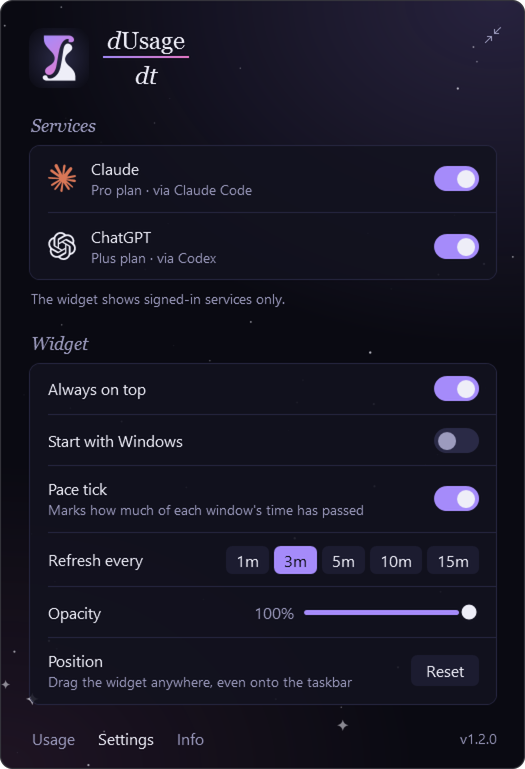
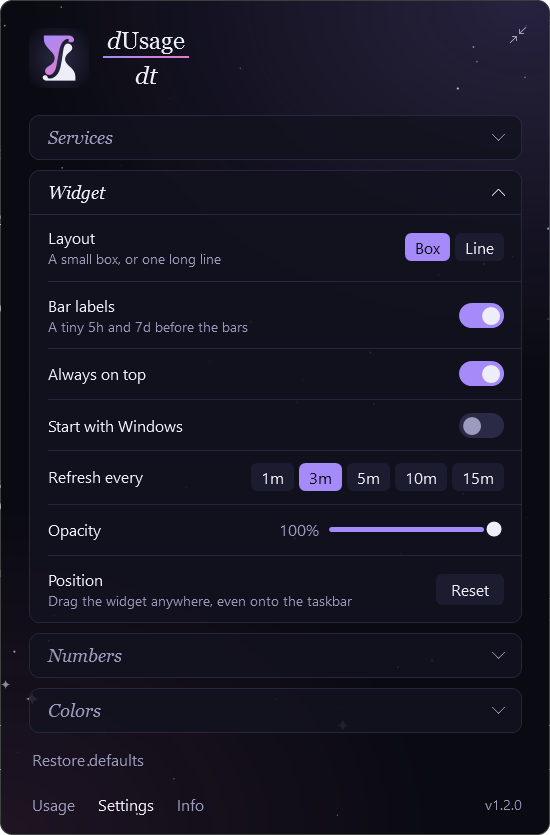
README: fresh screenshots for the settings overhaul
The widget with its 5h/7d labels and % signs, a new shot of the Line layout,
and the expanded widget at its new fixed size: the Usage page and the Settings
accordion with Widget open. Taken with default settings at 125% scaling,
corners cut to the rounded shape as before. The tooltip looks the same with
default settings, so it stays.

diff --git a/README.md b/README.md
@@ -4,7 +4,7 @@
 
 A tiny always-on-top Windows widget that shows how much of your **Claude** and **ChatGPT** plan limits you've used: the 5-hour window and the weekly window, at a glance.
 
-![The widget: a Claude row and a ChatGPT row, each with a 5-hour bar and a weekly bar](docs/widget.png)
+![The widget: a Claude row and a ChatGPT row, each with a 5h bar and a 7d (weekly) bar and the percent used](docs/widget.png)
 
 > **Made for Claude Code and Codex users.** dUsage/dt reads the sign-in that Claude Code and Codex save on your PC. If you only use claude.ai or ChatGPT in a browser, there's nothing for it to read.
 
@@ -39,7 +39,10 @@ No admin rights, and nothing else to install (.NET is built in). The command:
 - The number is the percent used (or, if you pick it in Settings, the percent left). A bar turns **amber at 75%** used and **red at 90%**; both are adjustable.
 - The thin **tick** marks how much of the window's *time* has passed. If the fill runs past the tick, you're using the limit faster than the clock. When the numbers show what's left, the bars drain instead and the tick marks the time left, so a bar that falls short of its tick is running out early.
 - A tiny **5h** or **7d** before each bar says which is which (you can switch them off).
-- The rows above are the **Box** layout. **Line** puts the services side by side in one long row, which fits on the taskbar.
+- The rows above are the **Box** layout. **Line** puts the services side by side in one long row, which fits on the taskbar:
+
+  ![The widget in the Line layout: Claude and ChatGPT side by side in one row](docs/widget-line.png)
+
 - A **faded logo** means that row couldn't update just now (for example, Claude Code's sign-in expired). The numbers are the last ones it got; hover to see why.
 - A service you aren't signed in to doesn't appear at all.
 
@@ -53,7 +56,7 @@ Hover for details: reset times, plan, and when it last updated.
 
 Right-click the widget and choose **Expand**, click the tray icon, or launch dUsage/dt from the Start menu while it's running. The widget grows into a bigger panel in its place; the button in the top-right corner (or Esc) shrinks it back. That also brings back a widget you've lost track of.
 
-<img src="docs/expanded.png" width="400" align="top" alt="The expanded widget's Usage page: a card per service with a wide bar, the percent used and the reset time for each limit"> <img src="docs/settings.png" width="400" align="top" alt="Its Settings page: services with on/off switches, and widget options">
+<img src="docs/expanded.png" width="400" align="top" alt="The expanded widget's Usage page: a card per service with a wide bar, the percent used and the reset time for each limit"> <img src="docs/settings.png" width="400" align="top" alt="Its Settings page: collapsible sections for Services, Widget, Numbers and Colors, with Widget open">
 
 Pick a page at the bottom left:
 
